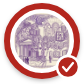
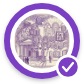
Use the new coast, culture and curiosities cards; give Art & museums its own
- Beaches & coast and Curiosities use the lighter redrawn cards.
- Culture gets its blue azulejo-street card and an indigo colour to
  match; Art & museums keeps the violet museum drawing as its own card
  and takes violet. Heritage, Nature and Music are unchanged.
- Map pins re-rendered from the new art.

Claude-Session: https://claude.ai/code/session_01NPAXC1S2tfXbwwDphfpjeQ

Changed region(s): [[0.0476, 0.0238, 0.9524, 0.9524]]

diff --git a/apps/mobile/src/theme.ts b/apps/mobile/src/theme.ts
@@ -11,8 +11,8 @@ const lightCategory = {
   coast: { color: '#0B6FB8', tint: '#E5F2FC' }, // Wandro blue: sea and sky
   nature: { color: '#2E7D32', tint: '#E7F4E8' }, // forest green: Sintra hills
   heritage: { color: '#B4441A', tint: '#FBEBE3' }, // terracotta: palace walls and roofs
-  culture: { color: '#7B3FC4', tint: '#F1E9FB' }, // violet: museums and art
-  art: { color: '#B3261E', tint: '#FDEBEA' }, // crimson: paint and street art
+  culture: { color: '#3949AB', tint: '#E8EAF7' }, // azulejo indigo: tiled streets, markets, festivals
+  art: { color: '#7B3FC4', tint: '#F1E9FB' }, // violet: museums and art (matches its card)
   music_events: { color: '#A3195B', tint: '#F9E7EF' }, // berry: nights out (matches its cover)
   other: { color: '#0A706F', tint: '#E0F3F2' }, // deep teal: curiosities (the octopus)
 } satisfies Record<Category, { color: string; tint: string }>;
@@ -21,8 +21,8 @@ const darkCategory: typeof lightCategory = {
   coast: { color: '#5FB4F0', tint: '#0F2A40' },
   nature: { color: '#6CC070', tint: '#132A17' },
   heritage: { color: '#F08A5D', tint: '#35190E' },
-  culture: { color: '#B48BF0', tint: '#24173A' },
-  art: { color: '#F2817B', tint: '#3A1512' },
+  culture: { color: '#9FA8EE', tint: '#1A1F3D' },
+  art: { color: '#B48BF0', tint: '#24173A' },
   music_events: { color: '#EE7AAE', tint: '#33121F' },
   other: { color: '#4FC8C4', tint: '#0F2C2C' },
 };

diff --git a/apps/mobile/src/categories.ts b/apps/mobile/src/categories.ts
@@ -15,8 +15,7 @@ export const CATEGORY_META: Record<Category, CategoryMeta> = {
   nature: { icon: 'leaf', art: require('../assets/art/nature.webp') },
   heritage: { icon: 'business', art: require('../assets/art/heritage.webp') },
   culture: { icon: 'color-palette', art: require('../assets/art/culture.webp') },
-  // Art & museums shares the culture illustration (one hand-drawn style across categories).
-  art: { icon: 'brush', art: require('../assets/art/culture.webp') },
+  art: { icon: 'brush', art: require('../assets/art/art.webp') },
   music_events: { icon: 'musical-notes', art: require('../assets/art/music_events.webp') },
   other: { icon: 'compass', art: require('../assets/art/other.webp') },
 };

diff --git a/PLAN.md b/PLAN.md
@@ -229,7 +229,7 @@ Comments, food challenges (venue QR codes for proof), Instagram sharing via the 
 **Platform & theme**
 
 - Portrait only on phones. Light + dark follow the system. Bright, airy, light-blue base with minimal clutter; the signature accent is Wandro blue.
-- **Colour-coded categories:** each category has an ink colour (pins, chips, headings) and a light tint (its pages). Beaches & coast = Wandro blue, Nature = forest green, Heritage = terracotta, Culture = violet, Music & events = magenta, Curiosities = deep teal. Undiscovered pins stay grey. All inks pass WCAG AA (tested in `theme.test.ts`).
+- **Colour-coded categories:** each category has an ink colour (pins, chips, headings) and a light tint (its pages). Beaches & coast = Wandro blue, Nature = forest green, Heritage = terracotta, Culture = azulejo indigo, Art & museums = violet, Music & events = berry, Curiosities = deep teal. Each category has its own hand-drawn card in `apps/mobile/assets/art` (Art & museums got its own violet card when Culture moved to food, festivals and neighbourhood life). Undiscovered pins stay grey. All inks pass WCAG AA (tested in `theme.test.ts`).
 - **Discover:** a hub of interests plus a page per category (Overview, Places, Learn) styled in that category's colour. Illustrated category covers stand in wherever a place has no licensed photo yet.
 - **Times and days** show for places that need them (venues, events): "Open now · until 00:30", "Thu–Sat · 21:30–00:30".
 - Tone: warm and respectful in all copy and community guidelines.

diff --git a/CHANGELOG.md b/CHANGELOG.md
@@ -6,6 +6,10 @@ All notable changes to Wandro. Release notes live in [`docs/releases/`](docs/rel
 
 ### Added
 
+- New hand-drawn cards for Beaches & coast, Culture (a blue azulejo street with market,
+  festival and café) and a lighter Curiosities card. Art & museums gets its own violet card,
+  and Culture's colour is now azulejo indigo to match its card; map pins re-rendered.
+
 - New hand-drawn city stamp pictures: vintage engravings of Pena Palace, Belém Tower, the
   Dom Luís I Bridge, the Roman Temple of Évora and Aveiro's moliceiros
   (`assets/stamps/src`, rendered by `scripts/render-stamps.mjs`).
